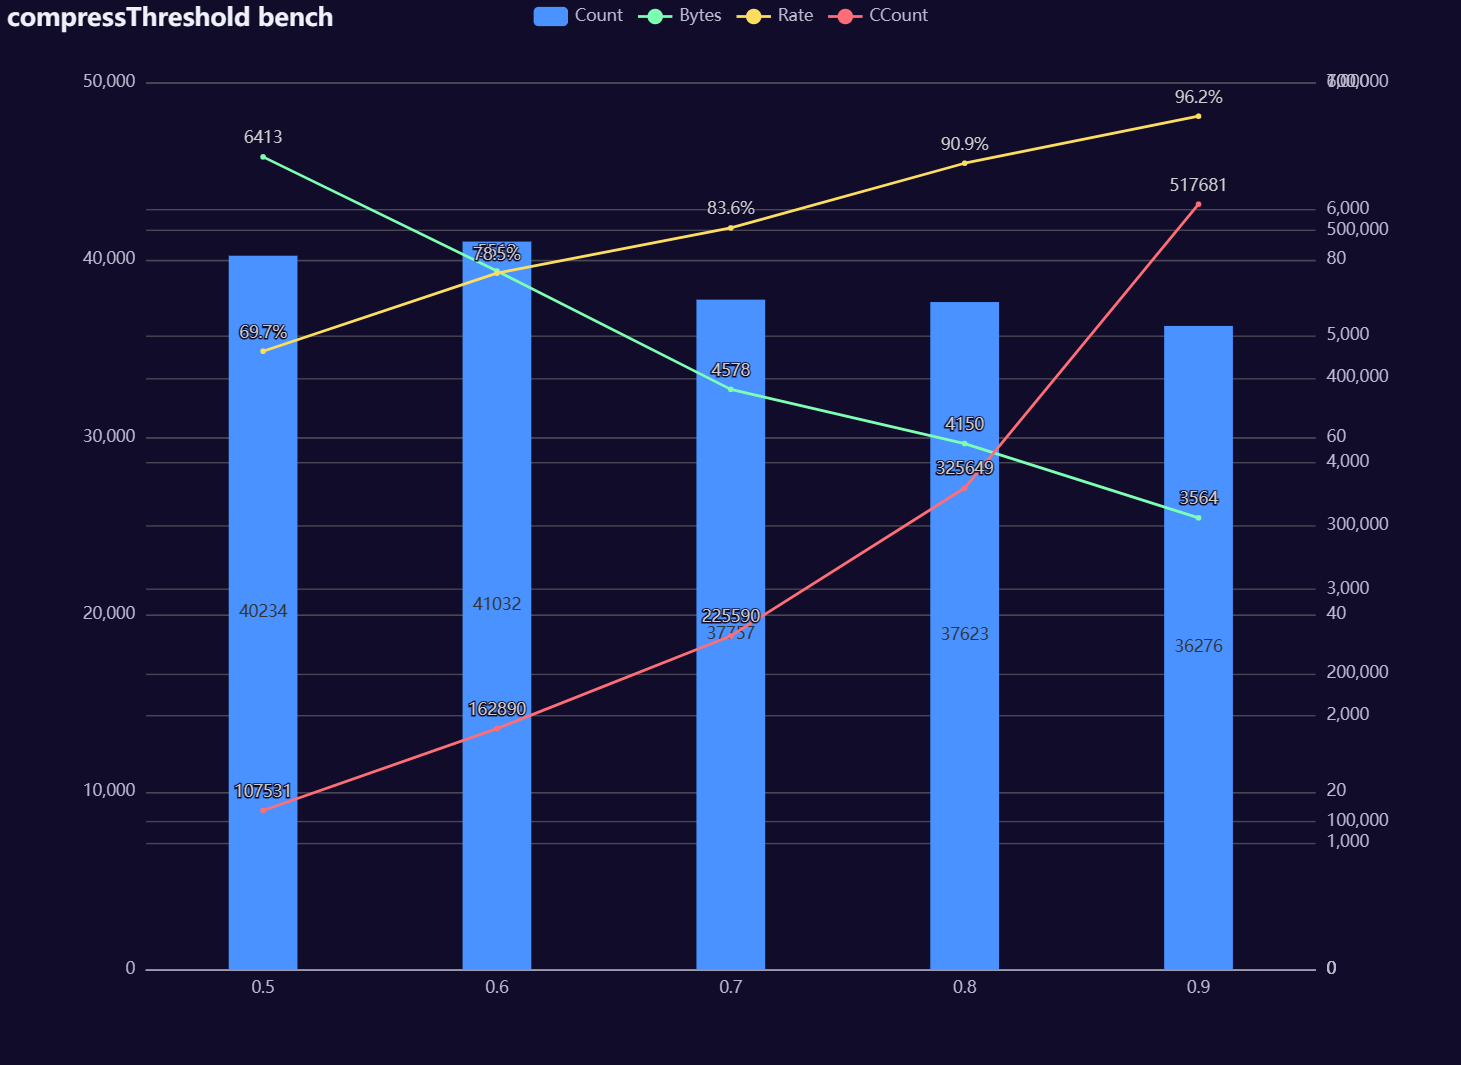
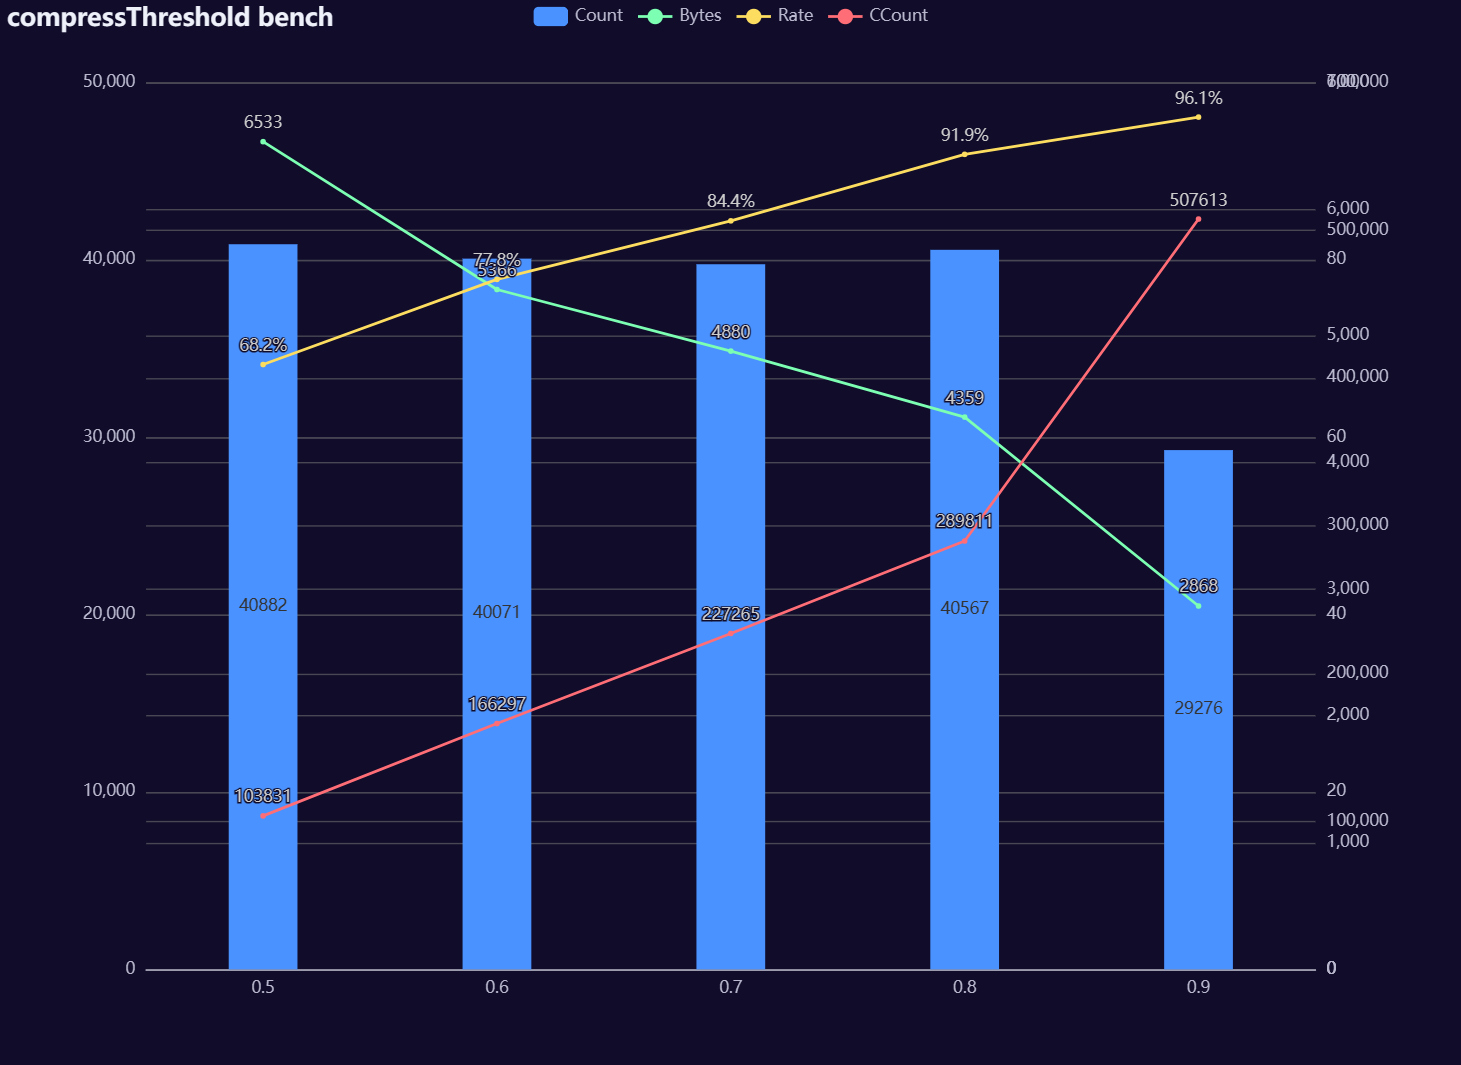
Refact compress (#17)
* optimizs setTx

* optimize set

* refact compress

* update readme

diff --git a/cache.go b/cache.go
@@ -2,13 +2,12 @@ package cache
 
 import (
 	"encoding/binary"
-	"math"
+	"slices"
 	"sync"
 	"time"
 	"unsafe"
 
 	"golang.org/x/exp/rand"
-	"golang.org/x/exp/slices"
 
 	"github.com/bytedance/sonic"
 	"github.com/tidwall/hashmap"
@@ -119,8 +118,8 @@ func (c *GigaCache[K]) getShard(key K) *bucket[K] {
 	return c.buckets[c.hash(key)]
 }
 
-// get
-func (b *bucket[K]) get(idx Idx) (any, int64, bool) {
+// getNoCopy returns NoCopy value.
+func (b *bucket[K]) getNoCopy(idx Idx) (any, int64, bool) {
 	if idx.IsAny() {
 		n := b.anyArr[idx.start()]
 
@@ -141,11 +140,23 @@ func (b *bucket[K]) get(idx Idx) (any, int64, bool) {
 			if ttl < clock {
 				return nil, 0, false
 			}
-			return slices.Clone(b.bytes[start:end]), ttl, true
+			return b.bytes[start:end], ttl, true
 		}
 
-		return slices.Clone(b.bytes[start:end]), noTTL, true
+		return b.bytes[start:end], noTTL, true
 	}
+}
+
+// get returns value.
+func (b *bucket[K]) get(idx Idx) (any, int64, bool) {
+	val, ts, ok := b.getNoCopy(idx)
+	if ok {
+		if idx.IsAny() {
+			return val, ts, true
+		}
+		return slices.Clone(val.([]byte)), ts, true
+	}
+	return nil, 0, false
 }
 
 // Get return bytes value by key.
@@ -161,32 +172,12 @@ func (c *GigaCache[K]) Get(key K) (any, int64, bool) {
 	return nil, 0, false
 }
 
-// SetTx
-func (c *GigaCache[K]) SetTx(key K, val any, ts int64) {
+// set
+func (b *bucket[K]) set(key K, val any, ts int64) {
 	hasTTL := (ts != noTTL)
 
 	// if bytes
 	bytes, ok := val.([]byte)
-
-	b := c.getShard(key)
-	b.Lock()
-	defer b.Unlock()
-	defer b.eliminate()
-
-	// if existed
-	idx, exist := b.idx.Get(key)
-	if exist {
-		// update inplace
-		if !ok && idx.IsAny() {
-			start := idx.start()
-			b.anyArr[start].T = ts
-			b.anyArr[start].V = val
-			b.idx.Set(key, newIdx(start, 0, hasTTL, true))
-			return
-		}
-	}
-
-	// is bytes
 	if ok {
 		b.idx.Set(key, newIdx(len(b.bytes), len(bytes), hasTTL, false))
 		b.bytes = append(b.bytes, bytes...)
@@ -196,10 +187,29 @@ func (c *GigaCache[K]) SetTx(key K, val any, ts int64) {
 		b.count++
 
 	} else {
-		b.idx.Set(key, newIdx(len(b.anyArr), 0, hasTTL, true))
-		b.anyArr = append(b.anyArr, &anyItem{V: val, T: ts})
-		b.count++
+		idx, exist := b.idx.Get(key)
+		// update inplace
+		if exist && idx.IsAny() {
+			start := idx.start()
+			b.anyArr[start].T = ts
+			b.anyArr[start].V = val
+			b.idx.Set(key, newIdx(start, 0, hasTTL, true))
+
+		} else {
+			b.idx.Set(key, newIdx(len(b.anyArr), 0, hasTTL, true))
+			b.anyArr = append(b.anyArr, &anyItem{V: val, T: ts})
+			b.count++
+		}
 	}
+}
+
+// SetTx
+func (c *GigaCache[K]) SetTx(key K, val any, ts int64) {
+	b := c.getShard(key)
+	b.Lock()
+	b.set(key, val, ts)
+	b.eliminate()
+	b.Unlock()
 }
 
 // Set
@@ -216,13 +226,9 @@ func (c *GigaCache[K]) SetEx(key K, val any, dur time.Duration) {
 func (c *GigaCache[K]) Delete(key K) bool {
 	b := c.getShard(key)
 	b.Lock()
-	defer b.Unlock()
-
 	_, ok := b.idx.Delete(key)
-	if ok {
-		b.count--
-	}
 	b.eliminate()
+	b.Unlock()
 
 	return ok
 }
@@ -243,6 +249,7 @@ func (c *GigaCache[K]) Scan(f func(K, any, int64) bool) {
 }
 
 func parseTTL(b []byte) int64 {
+	// check bound
 	_ = b[ttlBytes-1]
 	return *(*int64)(unsafe.Pointer(&b[0]))
 }
@@ -253,35 +260,37 @@ func (b *bucket[K]) eliminate() {
 		return
 	}
 
-	var failCont int
+	if b.idx.Len() == 0 {
+		return
+	}
+
+	var failCont, ttl int64
 	rdm := rand.Uint64()
 
 	// probing
 	for i := uint64(0); i < probeCount; i++ {
-		k, idx, ok := b.idx.GetPos(rdm + i*probeSpace)
+		k, idx, _ := b.idx.GetPos(rdm + i*probeSpace)
 
-		if ok && idx.hasTTL() {
-			if idx.IsAny() {
-				item := b.anyArr[idx.start()]
-				if item.T < clock {
-					b.idx.Delete(k)
-					failCont = 0
-					continue
-				}
-
-			} else {
-				end := idx.start() + idx.offset()
-				ttl := parseTTL(b.bytes[end:])
-
-				// expired
-				if ttl < clock {
-					b.idx.Delete(k)
-					failCont = 0
-					continue
-				}
-			}
+		if !idx.hasTTL() {
+			goto FAILED
 		}
 
+		if idx.IsAny() {
+			ttl = b.anyArr[idx.start()].T
+
+		} else {
+			end := idx.start() + idx.offset()
+			ttl = parseTTL(b.bytes[end:])
+		}
+
+		// expired
+		if ttl < clock {
+			b.idx.Delete(k)
+			failCont = 0
+			continue
+		}
+
+	FAILED:
 		failCont++
 		if failCont > maxFailCount {
 			break
@@ -290,7 +299,7 @@ func (b *bucket[K]) eliminate() {
 
 	// on compress threshold
 	if rate := float64(b.idx.Len()) / float64(b.count); rate < compressThreshold {
-		b.compress(rate)
+		b.compress()
 	}
 }
 
@@ -298,76 +307,37 @@ func (b *bucket[K]) eliminate() {
 func (c *GigaCache[K]) Compress() {
 	for _, b := range c.buckets {
 		b.Lock()
-		b.compress(float64(b.idx.Len()) / float64(b.count))
+		b.compress()
 		b.Unlock()
 	}
 }
 
-// Compress migrates the unexpired data and save memory.
-// Trigger when the valid count (valid / total) in the cache is less than this value.
-func (b *bucket[K]) compress(rate float64) {
-	if math.IsNaN(rate) {
-		return
+// compress migrates valid key-value pairs to the new container to save memory.
+func (b *bucket[K]) compress() {
+	newBucket := &bucket[K]{
+		idx:    hashmap.New[K, Idx](b.idx.Len()),
+		bytes:  bpool.Get(),
+		anyArr: make([]*anyItem, 0),
+		ccount: b.ccount + 1,
 	}
-	b.count = 0
-	b.ccount++
-
-	newBytes := bpool.Get()
-	newAnyArr := make([]*anyItem, 0, int(float64(len(b.anyArr))*rate))
-
-	delKeys := make([]K, 0)
 
 	b.idx.Scan(func(key K, idx Idx) bool {
-		start, has := idx.start(), idx.hasTTL()
-
-		// is any
-		if idx.IsAny() {
-			item := b.anyArr[start]
-
-			// expired
-			if has && item.T < clock {
-				delKeys = append(delKeys, key)
-				return true
-			}
-
-			b.idx.Set(key, newIdx(len(newAnyArr), 0, has, true))
-			newAnyArr = append(newAnyArr, item)
-
-			b.count++
-			return true
-
-		} else {
-			offset := idx.offset()
-			end := start + offset
-
-			// expired
-			if has && parseTTL(b.bytes[end:]) < clock {
-				delKeys = append(delKeys, key)
-				return true
-			}
-
-			// reset
-			b.idx.Set(key, newIdx(len(newBytes), offset, has, false))
-			if has {
-				newBytes = append(newBytes, b.bytes[start:end+ttlBytes]...)
-			} else {
-				newBytes = append(newBytes, b.bytes[start:end]...)
-			}
-
-			b.count++
-			return true
+		// nocopy
+		val, ts, ok := b.getNoCopy(idx)
+		if ok {
+			newBucket.set(key, val, ts)
 		}
+		return true
 	})
-
-	for _, key := range delKeys {
-		b.idx.Delete(key)
-	}
 
 	b.bytes = b.bytes[:0]
 	bpool.Put(b.bytes)
 
-	b.bytes = newBytes
-	b.anyArr = newAnyArr
+	b.bytes = newBucket.bytes
+	b.anyArr = newBucket.anyArr
+	b.idx = newBucket.idx
+	b.ccount = newBucket.ccount
+	b.count = newBucket.count
 }
 
 type bucketJSON[K comparable] struct {

diff --git a/cache_bench_test.go b/cache_bench_test.go
@@ -15,24 +15,24 @@ func getStdmap() map[string][]byte {
 }
 
 func BenchmarkSet(b *testing.B) {
-	m1 := map[string][]byte{}
 	b.Run("stdmap", func(b *testing.B) {
+		m := map[string][]byte{}
 		for i := 0; i < b.N; i++ {
-			m1[strconv.Itoa(i)] = str
+			m[strconv.Itoa(i)] = str
 		}
 	})
 
-	m2 := New[string]()
 	b.Run("gigacache", func(b *testing.B) {
+		m := New[string]()
 		for i := 0; i < b.N; i++ {
-			m2.Set(strconv.Itoa(i), str)
+			m.Set(strconv.Itoa(i), str)
 		}
 	})
 
-	m3 := New[string]()
 	b.Run("gigacache/Ex", func(b *testing.B) {
+		m := New[string]()
 		for i := 0; i < b.N; i++ {
-			m3.SetEx(strconv.Itoa(i), str, time.Minute)
+			m.SetEx(strconv.Itoa(i), str, time.Minute)
 		}
 	})
 }

diff --git a/cache_test.go b/cache_test.go
@@ -239,6 +239,7 @@ func TestCacheSet(t *testing.T) {
 
 	t.Run("Compress", func(t *testing.T) {
 		m := New[string]()
+		m.buckets[0].eliminate()
 
 		for i := 0; i < 100; i++ {
 			m.Set("noexpired"+strconv.Itoa(i), []byte{1, 2, 3})

diff --git a/README.md b/README.md
@@ -110,12 +110,12 @@ GC pause for startup:  10.828795ms
 
 compressThreshold with 200s test.
 
-| compressThreshold | count  | bytes | ccount | rate  | avg    |
-| ----------------- | ------ | ----- | ------ | ----- | ------ |
-| 0.5               | 40234w | 6413w | 107531 | 69.7% | 0.12ns |
-| 0.6               | 41032w | 5512w | 162890 | 78.5% | 0.11ns |
-| 0.7               | 37757w | 4578w | 225590 | 83.6% | 0.16ns |
-| 0.8               | 37623w | 4150w | 325649 | 90.9% | 0.17ns |
-| 0.9               | 36276w | 3564w | 517681 | 96.2% | 0.17ns |
+| compressThreshold | count(w) | bytes(w) | ccount | rate(%) | avg(ns) |
+| ----------------- | -------- | -------- | ------ | ------- | ------- |
+| 0.5               | 40882    | 6533     | 103831 | 68.2    | 0.07    |
+| 0.6               | 40071    | 5366     | 166297 | 77.8    | 0.07    |
+| 0.7               | 39754    | 4880     | 227265 | 84.4    | 0.08    |
+| 0.8               | 40567    | 4359     | 289811 | 91.9    | 0.09    |
+| 0.9               | 29276    | 2868     | 507613 | 96.1    | 0.10    |
 
 ![p1](p1.png)
